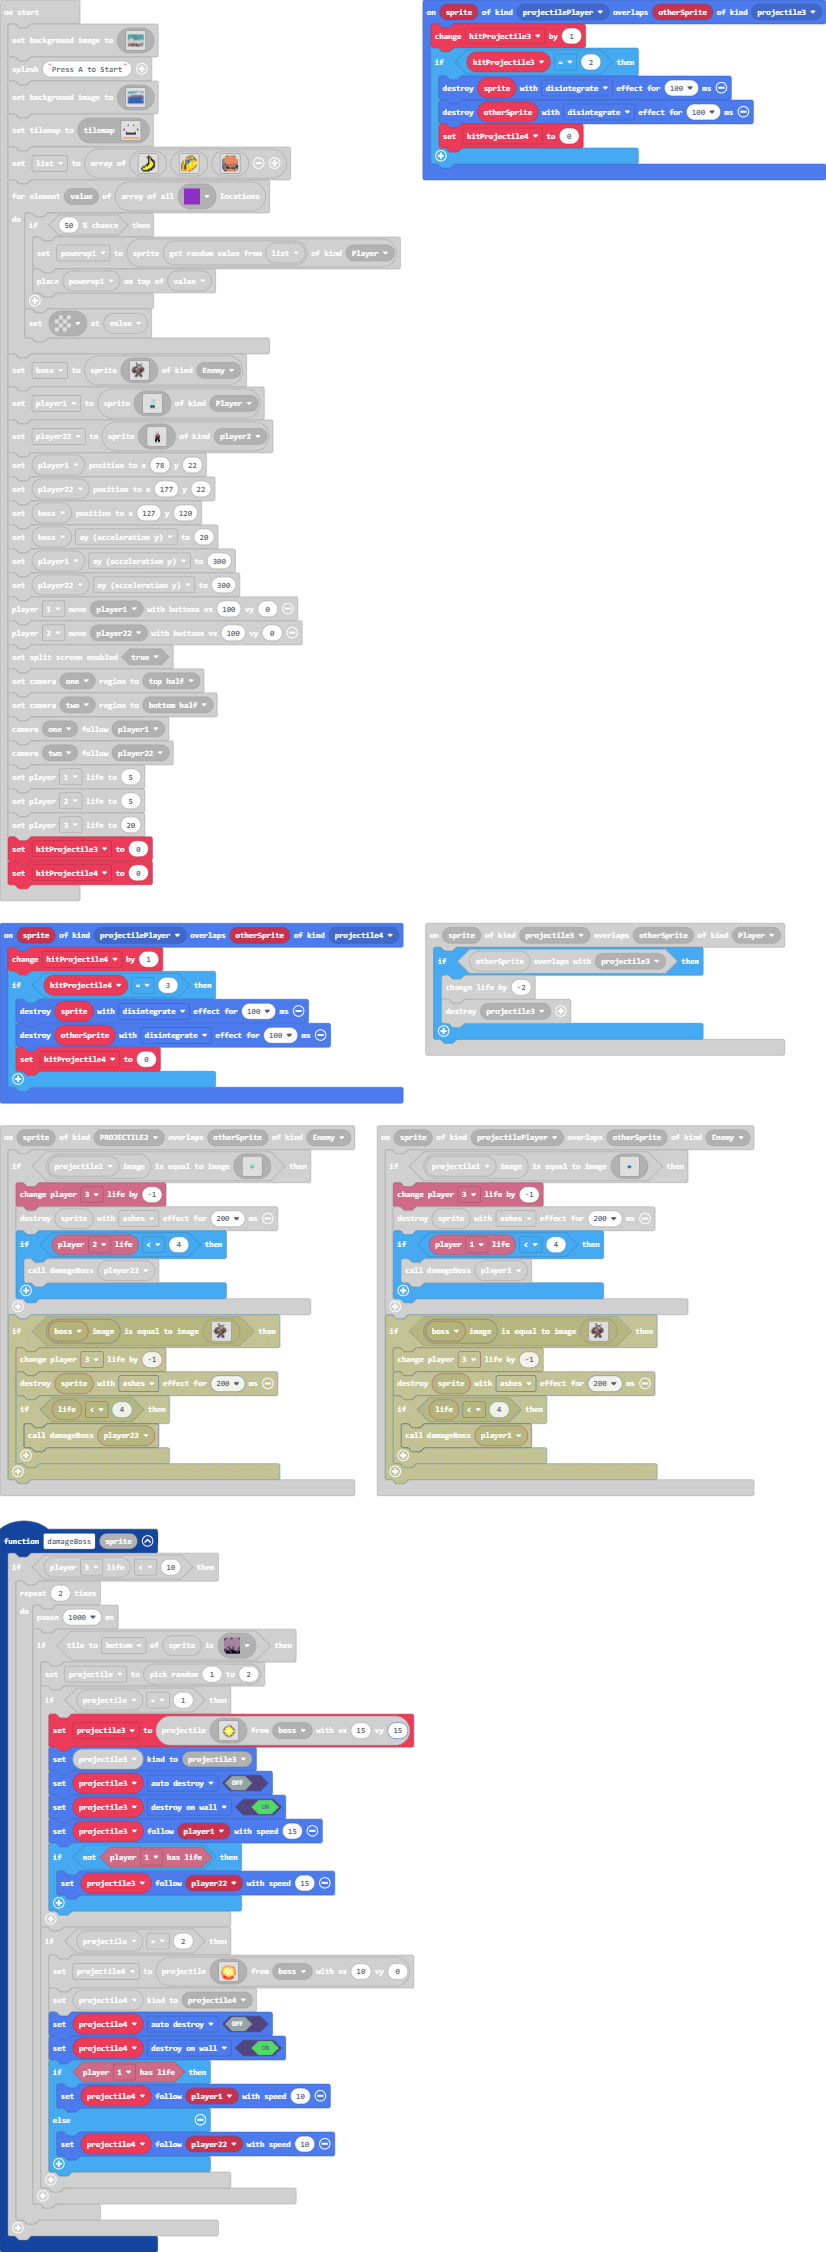
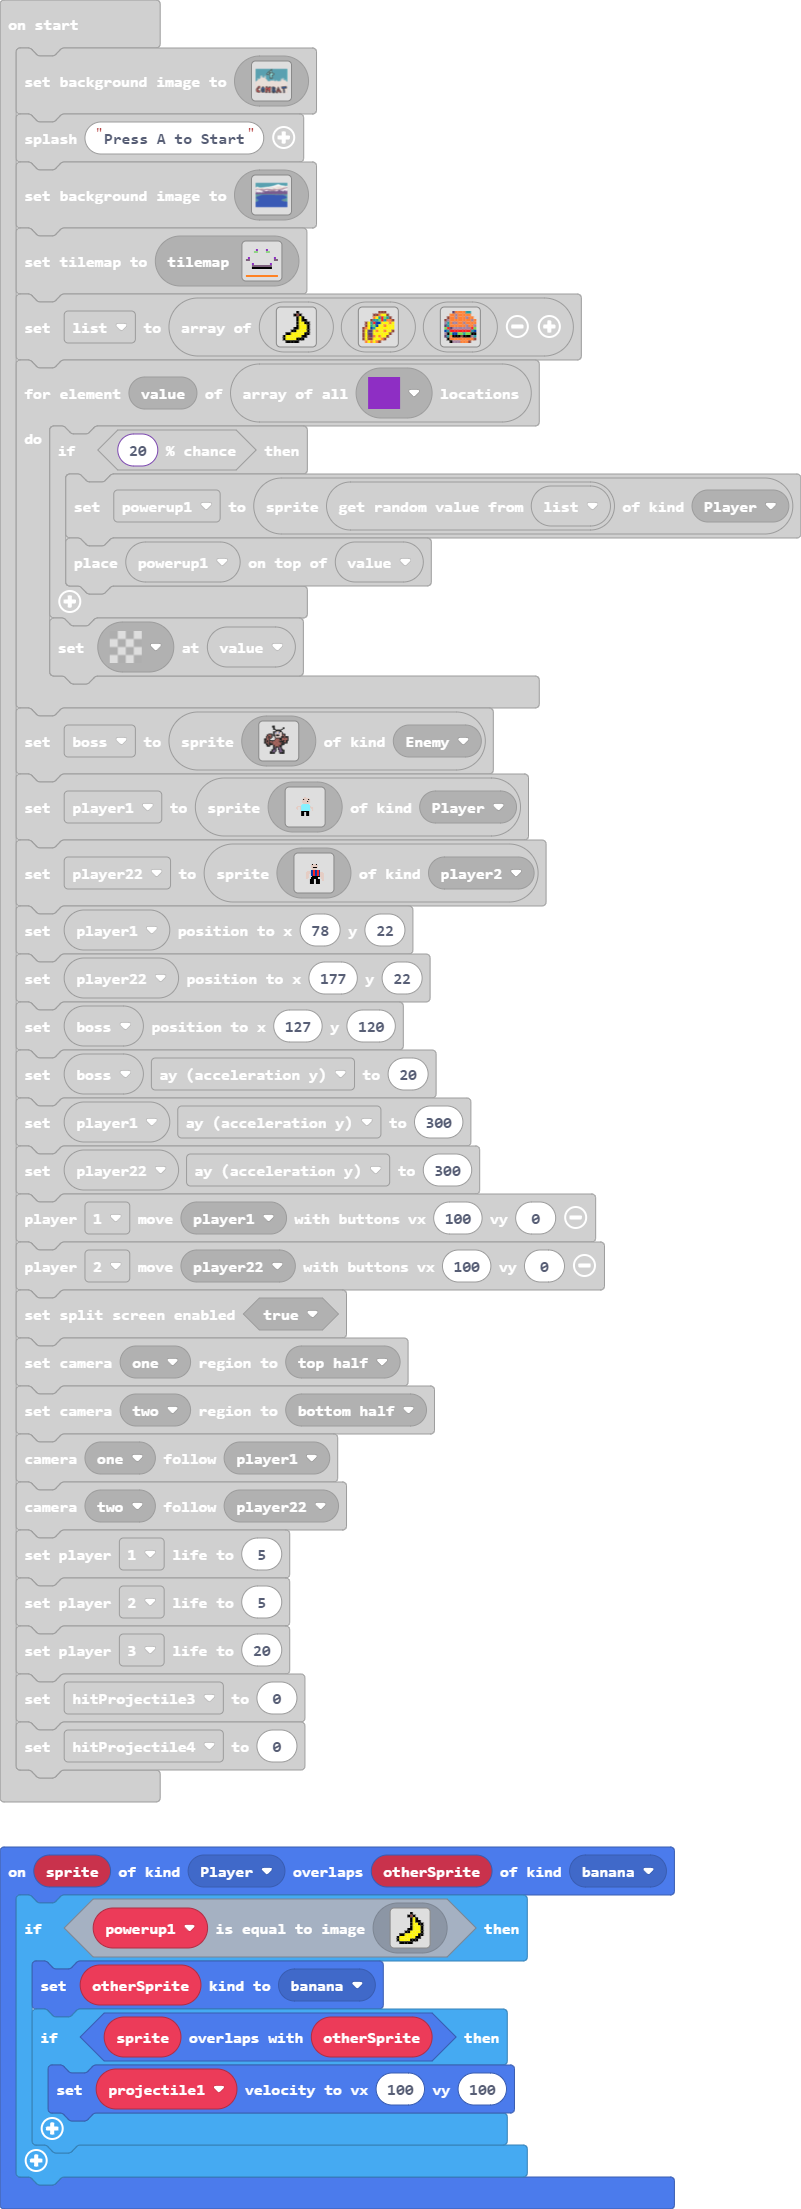
Update main.blocks, main.ts

diff --git a/main.ts b/main.ts
@@ -5,6 +5,7 @@ namespace SpriteKind {
     export const player2 = SpriteKind.create()
     export const projectile3 = SpriteKind.create()
     export const projectile4 = SpriteKind.create()
+    export const banana = SpriteKind.create()
 }
 scene.onHitWall(SpriteKind.Player, function (sprite, location) {
     if (sprite.isHittingTile(CollisionDirection.Top)) {
@@ -651,6 +652,27 @@ sprites.onOverlap(SpriteKind.projectilePlayer, SpriteKind.projectileBoss, functi
     sprites.destroy(sprite, effects.disintegrate, 100)
     sprites.destroy(otherSprite, effects.disintegrate, 100)
 })
+sprites.onOverlap(SpriteKind.Player, SpriteKind.banana, function (sprite, otherSprite) {
+    if (powerup1.equals(img`
+        . . . . . . f . . . . . 
+        . . . . . f e f . . . . 
+        . . . . . . f 5 f . . . 
+        . . . . . . f 5 f f . . 
+        . . . . . . f 5 5 f f . 
+        . . . . . . f 5 5 5 f . 
+        . . . . . f f 5 5 5 f . 
+        . . . . f f 5 5 5 5 f . 
+        . . f f 5 5 5 5 5 f f . 
+        . f 5 5 5 5 5 5 f f . . 
+        . f 5 5 5 5 f f f . . . 
+        . . f f f f f . . . . . 
+        `)) {
+        otherSprite.setKind(SpriteKind.banana)
+        if (sprite.overlapsWith(otherSprite)) {
+            projectile1.setVelocity(100, 100)
+        }
+    }
+})
 let projectile = 0
 let projectile3: Sprite = null
 let proy = 0
@@ -668,7 +690,7 @@ let hitProjectile3 = 0
 let player22: Sprite = null
 let player1: Sprite = null
 let boss: Sprite = null
-let powerup1: Sprite = null
+let powerup1: Image = null
 scene.setBackgroundImage(img`
[2 lines of base64/hex data omitted]
@@ -956,7 +978,7 @@ let list = [img`
     . . f b b b 4 4 4 e . . 
     `]
 for (let value of tiles.getTilesByType(sprites.swamp.swampTile9)) {
-    if (Math.percentChance(50)) {
+    if (Math.percentChance(20)) {
         powerup1 = sprites.create(list._pickRandom(), SpriteKind.Player)
         tiles.placeOnTile(powerup1, value)
     }
